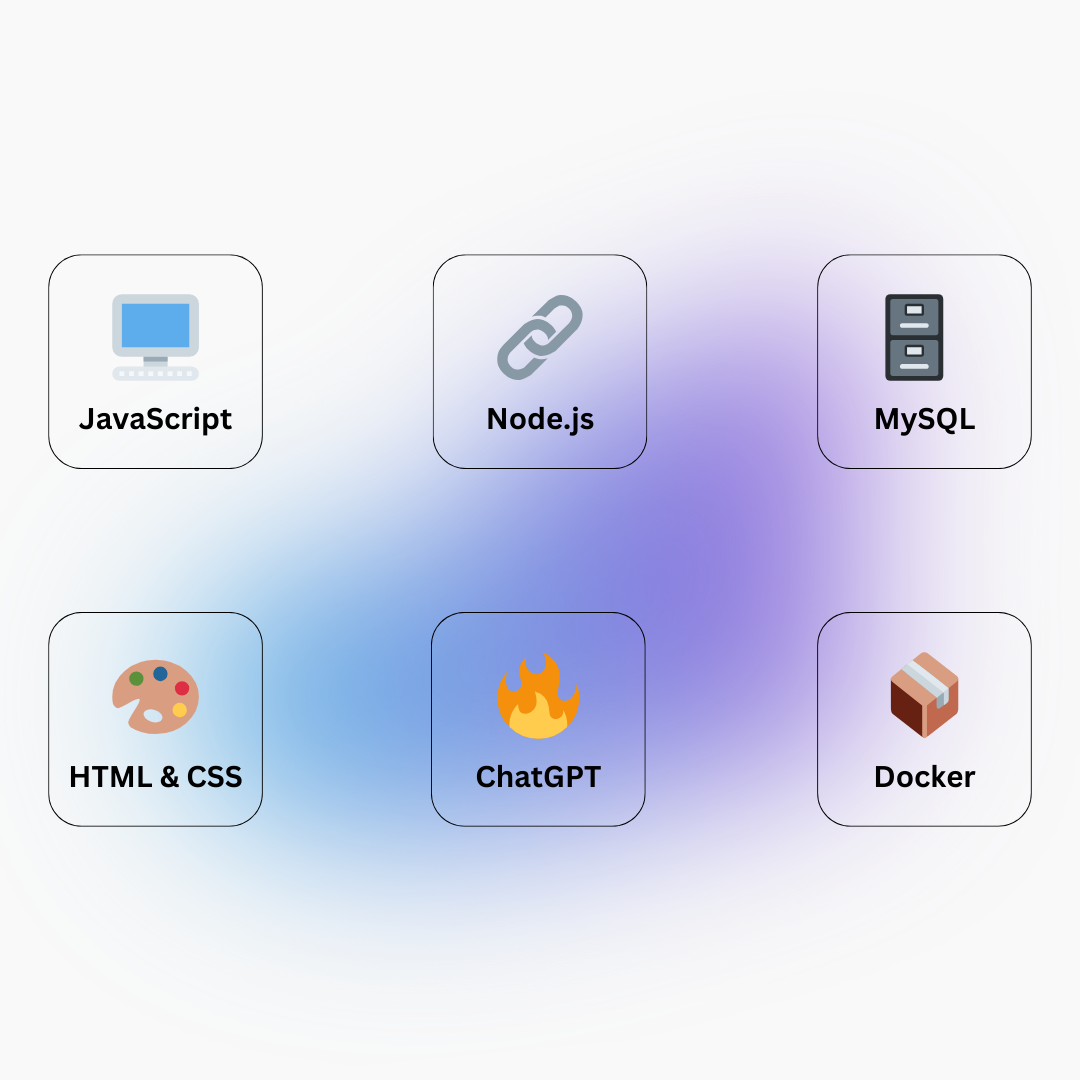
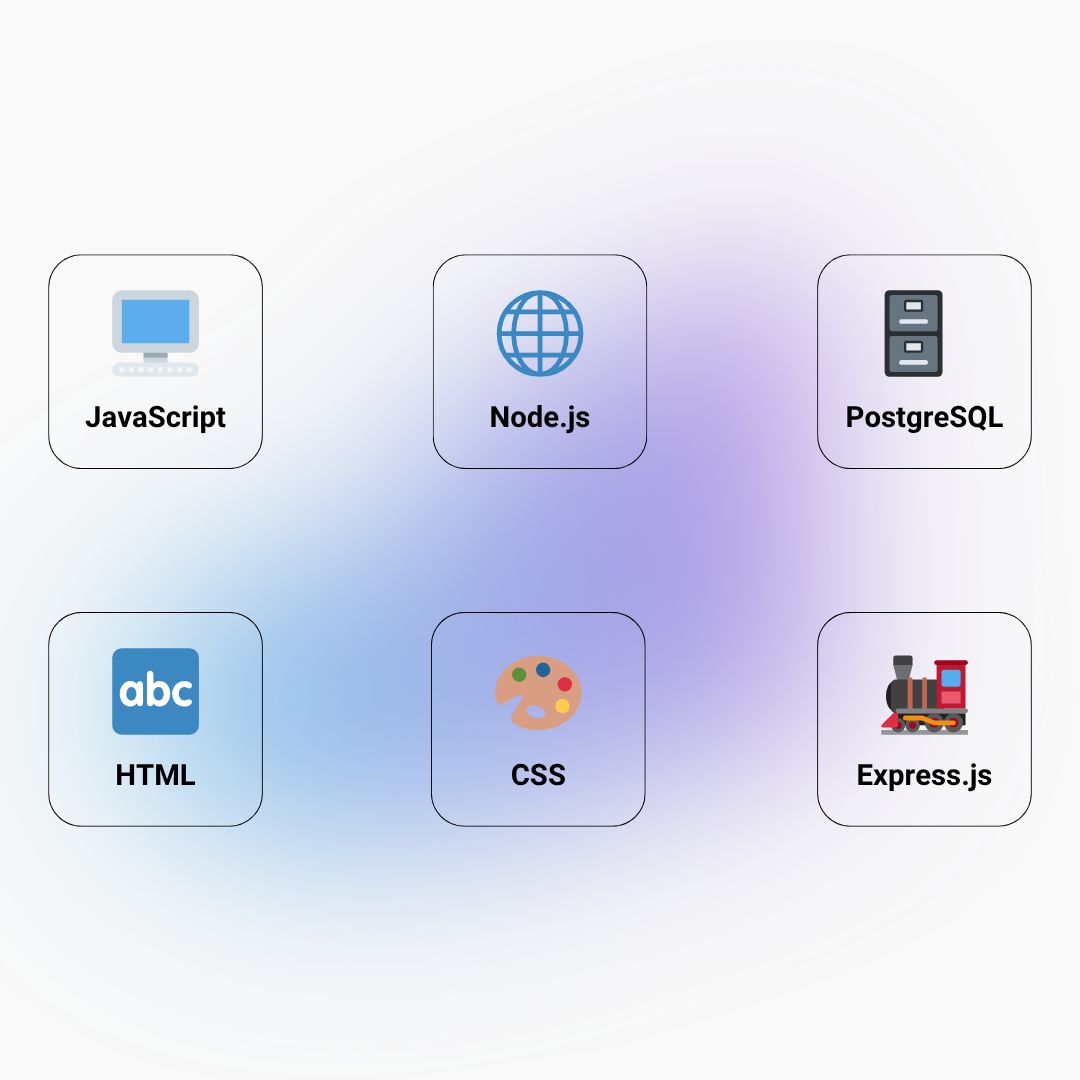
updated content

diff --git a/index.html b/index.html
@@ -3,7 +3,7 @@
 <head>
     <meta charset="UTF-8">
     <meta name="viewport" content="width=device-width, initial-scale=1.0">
-    <title>Tom Elliott | Backend Developer</title>
+    <title>Tom Elliott | Web Developer</title>
     <link rel="stylesheet" href="style.css">
 </head>
 
@@ -22,7 +22,7 @@
         <div class="header-content">
             <p class="subtitle">Self-Taught Developer & Problem Solver</p>
             <h1>Tom Elliott</h1>
-            <p class="highlight">I transform ideas into structured, scalable, and maintainable backend solutions – driven by a self-taught mindset and real-world experience.</p>
+            <p class="highlight">I transform ideas into structured, scalable, and maintainable solutions – driven by a self-taught mindset and real-world experience.</p>
         </div>
     </header>
 
@@ -30,9 +30,9 @@
     <section id="about" class="section">
         <div class="text">
             <h2>About Me</h2>
-            <h3>From Business to Backend</h3>      
-            <p>With an <strong>academic background in economics, specializing in marketing and branding</strong>, I bring a structured, analytical mindset to software development. My curiosity for problem-solving led me to <strong>self-learn programming</strong>, focusing on <strong>backend development</strong>, where I design scalable APIs, efficient database architectures, and robust server-side logic.</p>
-            <p>Beyond coding, I have <strong>professional experience in project management</strong>, having worked in a <strong>digital agency</strong> where I applied <strong>Agile methodologies</strong> using <strong>Confluence, Jira, and Scrum</strong>. This experience allows me to work efficiently in structured development environments and collaborate effectively with teams.</p>
+            <h3>From Marketing to Development</h3> 
+            <p>I started out in marketing and branding, where I worked on <strong>user journeys, analytics, and campaign optimization</strong>. During my master’s degree, I discovered my passion for the technical side of digital solutions. This curiosity deepened while doing an <strong>intership at the B2B digital agency TOWA</strong>, where I collaborated with developers on webshops, implemented affiliate programs, and managed websites using Storyblok CMS.</p>
+            <p>Today, I’m training as a </strong>Backend Developer through Codecademy’s career path</strong>, where I work with <strong>JavaScript, Node.js, Express, PostgreSQL and Git</strong>. My goal is to build robust, maintainable systems and contribute to clean, user-centered backend architecture. Thanks to my background, I approach code with both a <strong>technical mindset</strong> and a strong sense for <strong>structured teamwork and product thinking</strong>.</p>
         </div>
         <div class="image">
             <img src="images/Tom-Elliott.png" alt="Tom Elliott - About Me">
@@ -47,15 +47,14 @@
         <div class="text">
             <h2>Tech Stack</h2>
             <h3>What I Work With</h3>
-            <p>I specialize in <strong>backend development</strong> while ensuring seamless integration with frontend technologies.</p>
+            <p>I specialize in <strong>backend development</strong> while ensuring seamless integration with <strong>frontend technologies</strong>.</p>
             <ul>
-                <li><strong>Programming Languages:</strong> JavaScript (ES6+), TypeScript</li>
-                <li><strong>Backend & API Development:</strong> Node.js, Express.js, NestJS, RESTful APIs, GraphQL</li>
-                <li><strong>Databases & Data Management:</strong> PostgreSQL, MongoDB, MySQL</li>
-                <li><strong>Authentication & Security:</strong> JWT, OAuth, Role-Based Access Control (RBAC), ORM: Prisma, TypeORM</li>
-                <li><strong>Infrastructure & Deployment:</strong> Docker, Kubernetes, CI/CD Pipelines</li>
-                <li><strong>Frontend Integration:</strong> HTML, CSS, JavaScript</li>
-                <li><strong>Project Management & Workflow:</strong> Scrum, Jira & Confluence</li>
+                <li><strong>Language & Runtime:</strong> JavaScript (ES6+), Node.js</li>
+                <li><strong>Framework:</strong> Express.js</li>
+                <li><strong>Database:</strong> PostgreSQL</li>
+                <li><strong>Versioning & Collaboration:</strong> Git, GitHub</li>
+                <li><strong>Frontend Basics:</strong> HTML, CSS</li>
+                <li><strong>Project Tool:</strong> Jira (Scrum)</li>
             </ul>
         </div>
     </section>
@@ -63,19 +62,43 @@
     <!-- SECTION 3: PROJECTS -->
     <section id="projects" class="section">
         <div class="text">
-            <h2>Projects</h2>
-            <h3>What I’ve Built</h3>
-            <p>To gain real-world experience, I have worked on projects that emphasize <strong>performance, security, and scalability.</strong></p>
-            <ul>
-                <li><strong>Personal Portfolio Website:</strong> Designed and developed a fully responsive portfolio website using HTML & CSS.</li>
-                <li><strong>Real-time Chat Application:</strong> Developed a WebSocket-powered messaging service with database persistence.</li>
-                <li><strong>Task Management Backend:</strong> Created a robust backend for a productivity app with role-based authentication.</li>
-            </ul>
+          <h2>Projects</h2>
+          <h3>What I’ve Built</h3>
+          <p>
+            Each project helps me to grow as a developer by focusing on clarity, structure, and real-world relevance.
+          </p>
+          <ul>
+            <li>
+              <strong>
+                <a href="https://github.com/yourusername/credit-card-checker" target="_blank">
+                  Credit Card Checker:
+                </a>
+              </strong>
+              An interactive educational tool that explains how the Luhn algorithm detects invalid credit card numbers.
+            </li>
+            <li>
+              <strong>
+                <a href="https://github.com/yourusername/dna-simulation" target="_blank">
+                  DNA Simulation:
+                </a>
+              </strong>
+              Generates and mutates DNA strands to simulate survival logic based on base composition.
+            </li>
+            <li>
+              <strong>
+                <a href="https://github.com/yourusername/portfolio-website" target="_blank">
+                  Portfolio Website:
+                </a>
+              </strong>
+              This very site – hand-coded in HTML & CSS to practice layout and structure.
+            </li>
+          </ul>
         </div>
         <div class="image">
-            <img src="images/Projects.png" alt="Projects">
+          <img src="images/Projects.png" alt="Projects">
         </div>
-    </section>
+      </section>
+      
 
     <!-- SECTION 4: CONTACT -->
     <section id="contact" class="section reverse">
@@ -84,21 +107,21 @@
         </div>
         <div class="text">
             <h2>Let’s Connect</h2>
-            <p>I am excited to start my <strong>first professional role as a Backend Developer</strong> and bring my <strong>technical skills, structured approach, and project-driven mindset</strong> to a team where I can <strong>grow, learn, and contribute</strong>.</p>
+            <p>I’m currently looking for my <strong>first developer role</strong> in a team where I can apply what I’ve learned, grow through experience, and contribute with dedication and structure.</p>
             <p><strong>Email:</strong> <a href="mailto:tom.elliott@gmx.at">tom.elliott@gmx.at</a></p>
-            <p><strong>Phone:</strong> <a href="#">+43 678 780 4247</a></p>
-            <p><strong>GitHub:</strong> <a href="#">My GitHub</a></p>
+            <p><strong>Phone:</strong> <a href="tel:+436787804247" aria-label="Telefonnummer +49 678 7804247">+43 678 780 4247</a>
+            <p><strong>GitHub:</strong> <a href="https://github.com/tomelliott96" target="_blank" rel="noopener noreferrer">My GitHub</a>
         </div>
     </section>
 
      <!-- FOOTER -->
      <footer class="footer">
         <div class="footer-content">
-            <p>© 2025 Tom Elliott | Backend Developer</p>
+            <p>© 2025 Tom Elliott | Web Developer</p>
             <div class="footer-links">
                 <a href="mailto:tom.elliott@gmx.at">Email</a>
                 <a href="#">LinkedIn</a>
-                <a href="#">GitHub</a>
+                <a href="https://github.com/tomelliott96">GitHub</a>
             </div>
         </div>    
 

diff --git a/style.css b/style.css
@@ -45,7 +45,7 @@ p {
     display: flex;
     align-items: center;
     justify-content: flex-start;
-    background-image: url(images/frontend-development.jpg);
+    background-image: url(../images/coding.jpg);
     background-size: cover;
     background-position: center;
     height: 650px;
